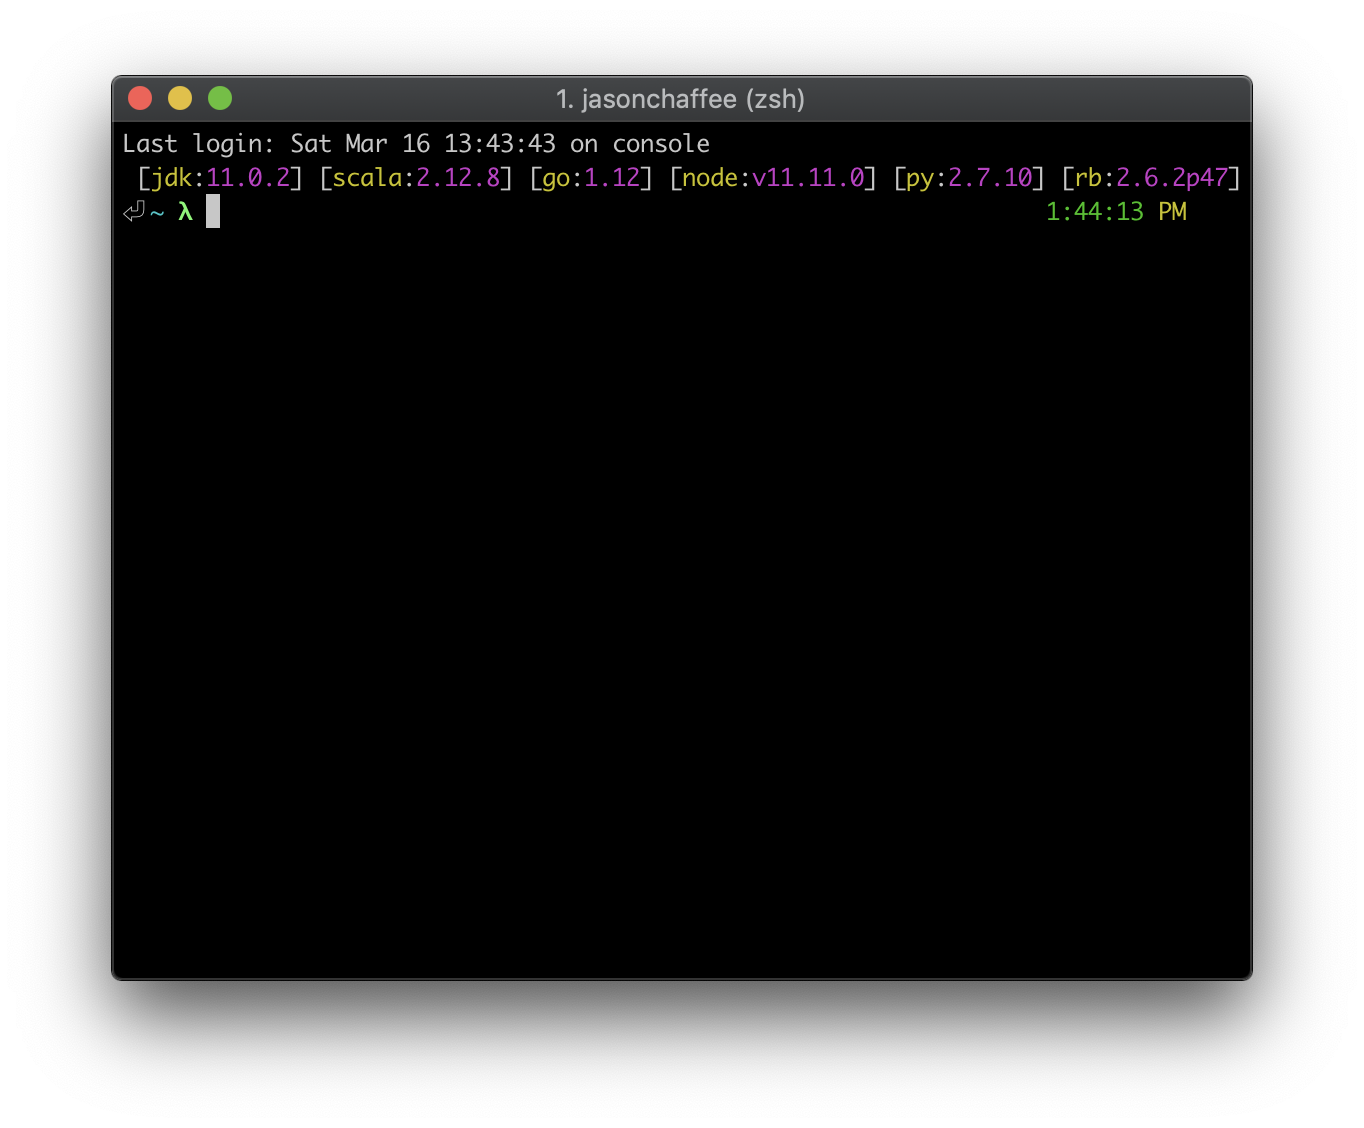
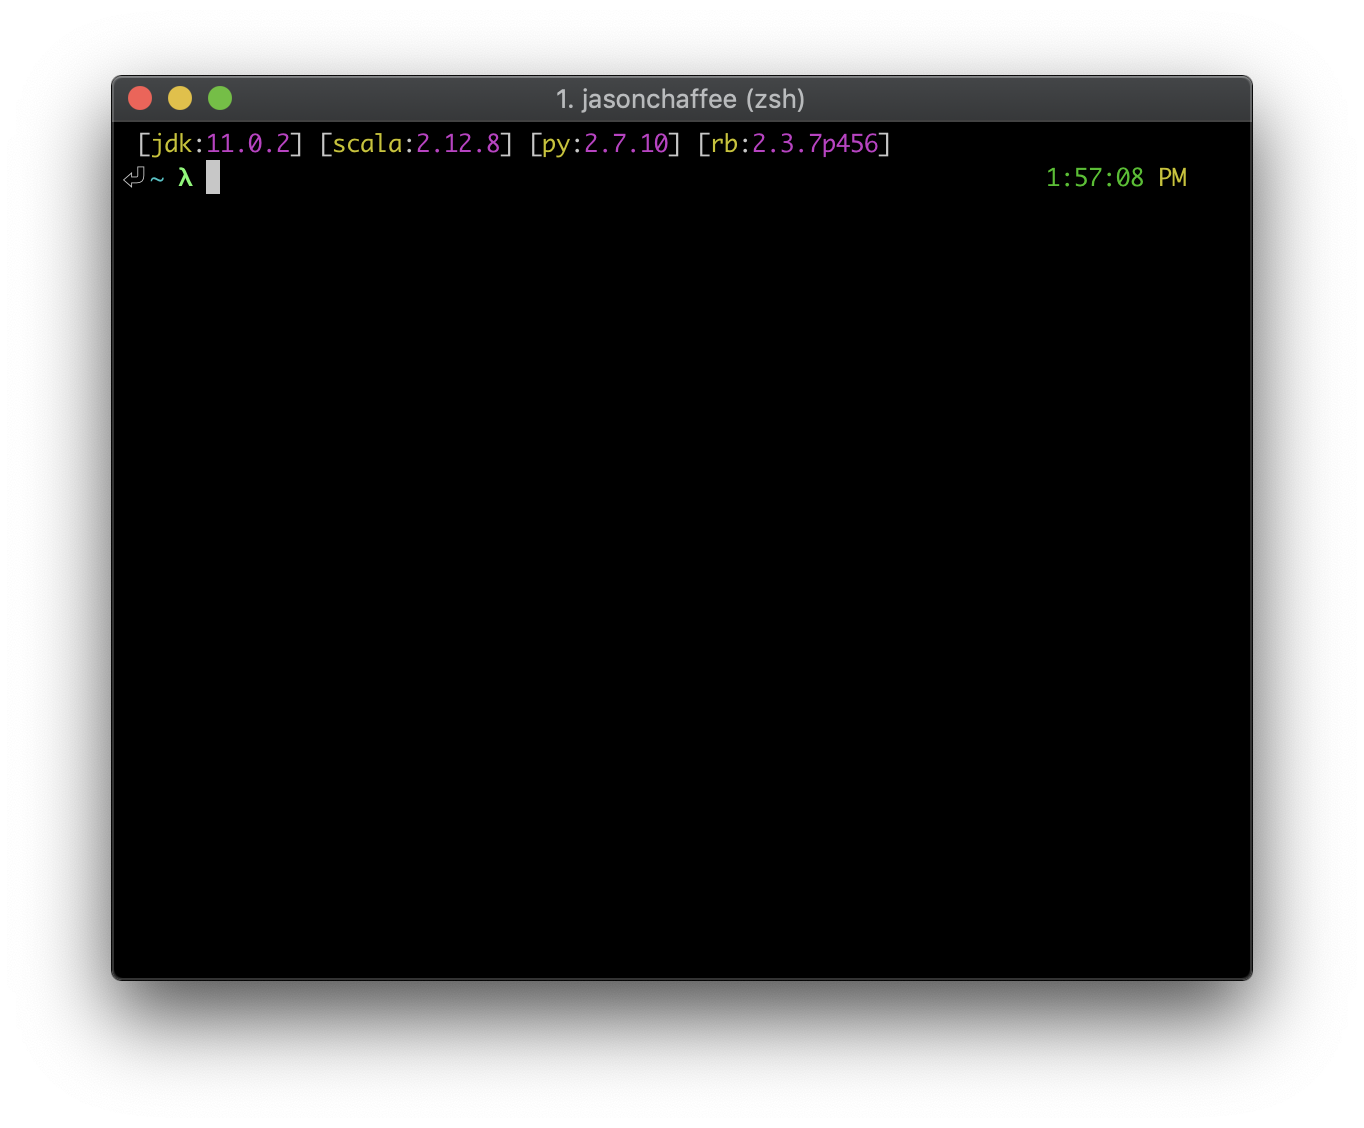
added screenshot with some languages and with all languages

Changed region(s): [[0.0924, 0.1241, 0.6774, 0.2172], [0.739, 0.1241, 0.893, 0.1862]]

diff --git a/README.md b/README.md
@@ -12,5 +12,7 @@ It will list the current version of the following programing languages in the sh
 
 If a a language is not installed, it will be omitted from the display.
 
-# Screenshot
+# Screenshots
 ![ScreenShot](screenshot.png)
+
+![ScreenShotAll](screenshot-all.png)
